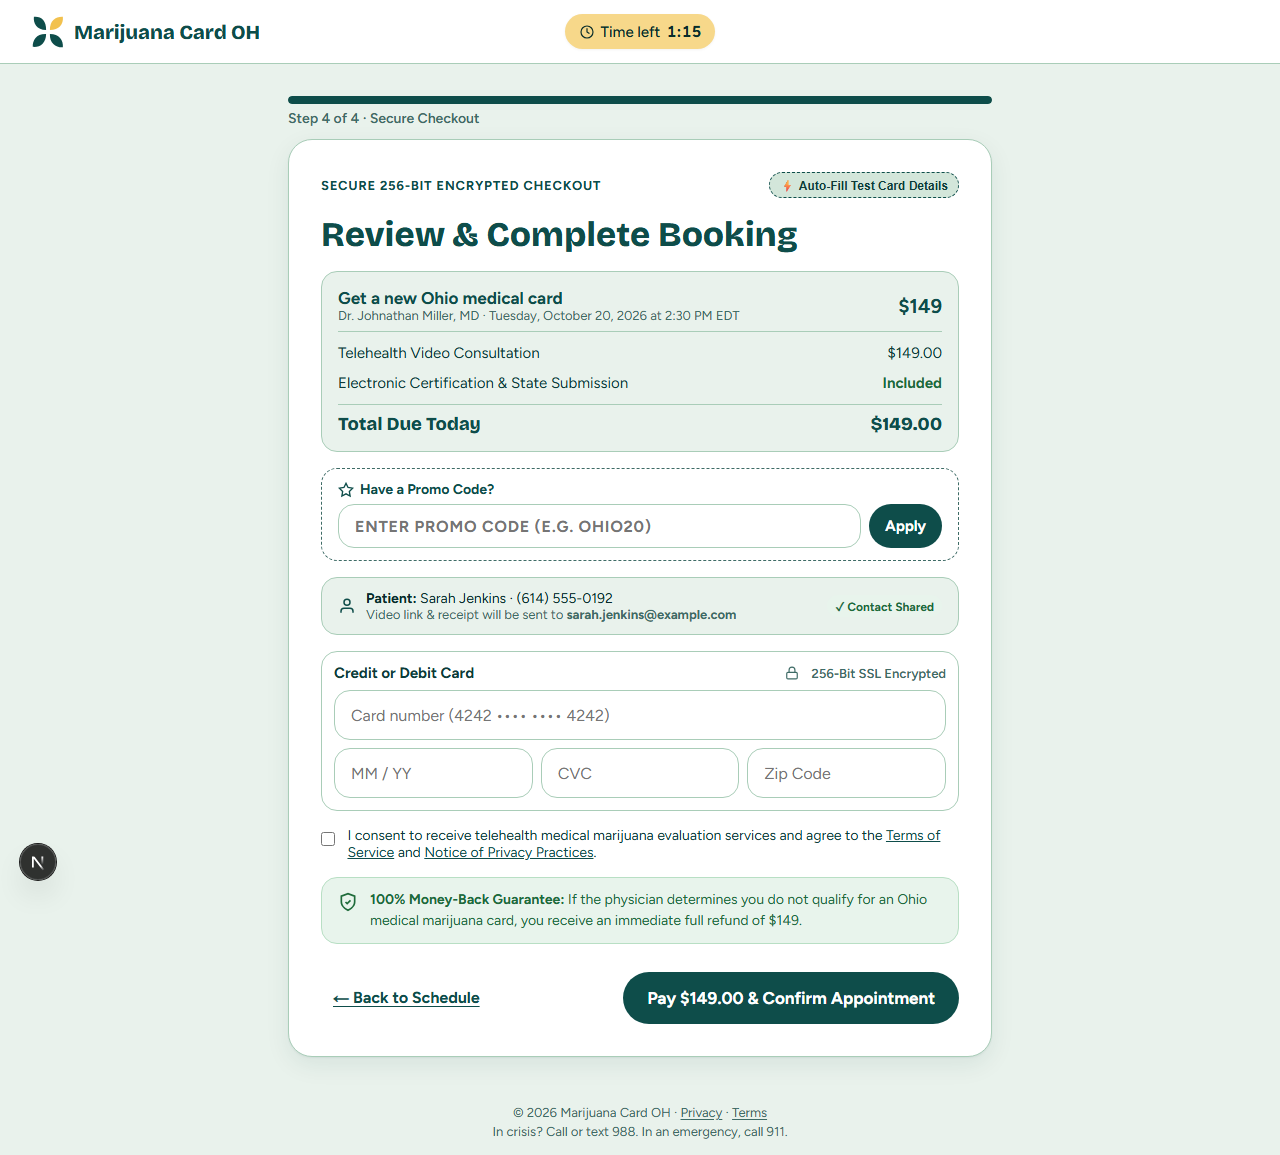
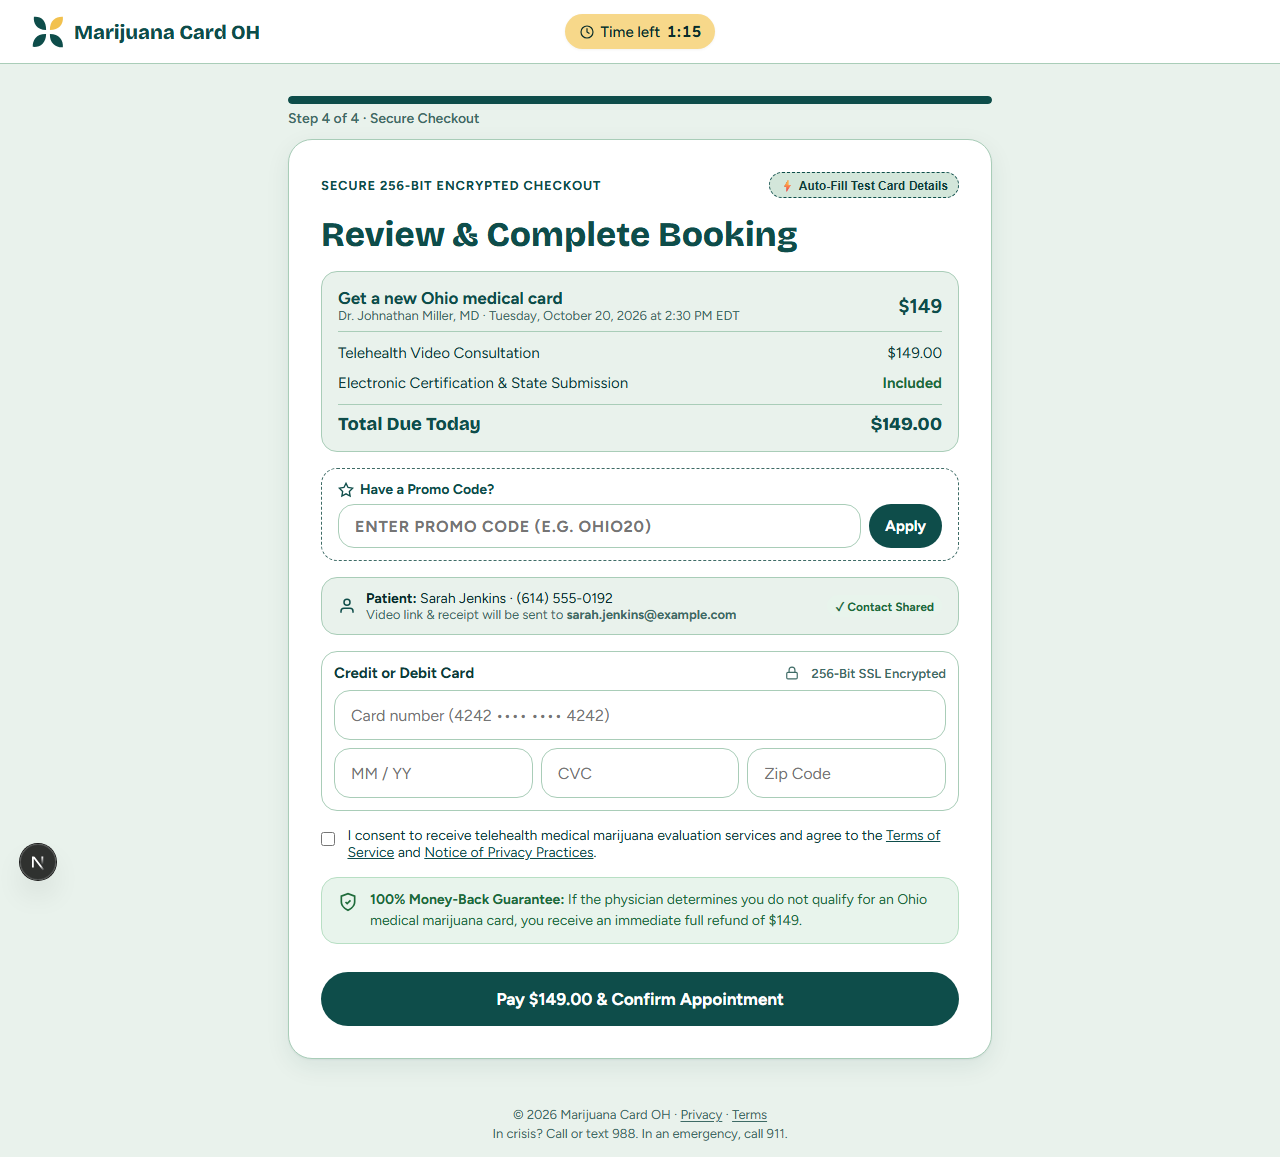
Remove back/return button from payment page and last screen

diff --git a/survey-app/src/app/page.tsx b/survey-app/src/app/page.tsx
@@ -898,22 +898,13 @@ function BookingFunnelContent() {
                   </div>
                 </div>
 
-                {/* Action Buttons */}
-                <div className="fld0dG_nav">
-                  <button
-                    type="button"
-                    onClick={() => setCurrentStep(3)}
-                    className="fld0dG_ghost"
-                    disabled={isSubmitting}
-                  >
-                    ← Back to Schedule
-                  </button>
-
+                {/* Action Button */}
+                <div style={{ display: "flex", justifyContent: "center", paddingTop: "var(--space-md)" }}>
                   <button
                     type="submit"
                     className="fld0dG_primary"
                     disabled={isSubmitting}
-                    style={{ minWidth: "220px" }}
+                    style={{ width: "100%", minHeight: "54px", fontSize: "1.0625rem" }}
                   >
                     {isSubmitting ? (
                       <span style={{ display: "inline-flex", alignItems: "center", gap: "8px" }}>
